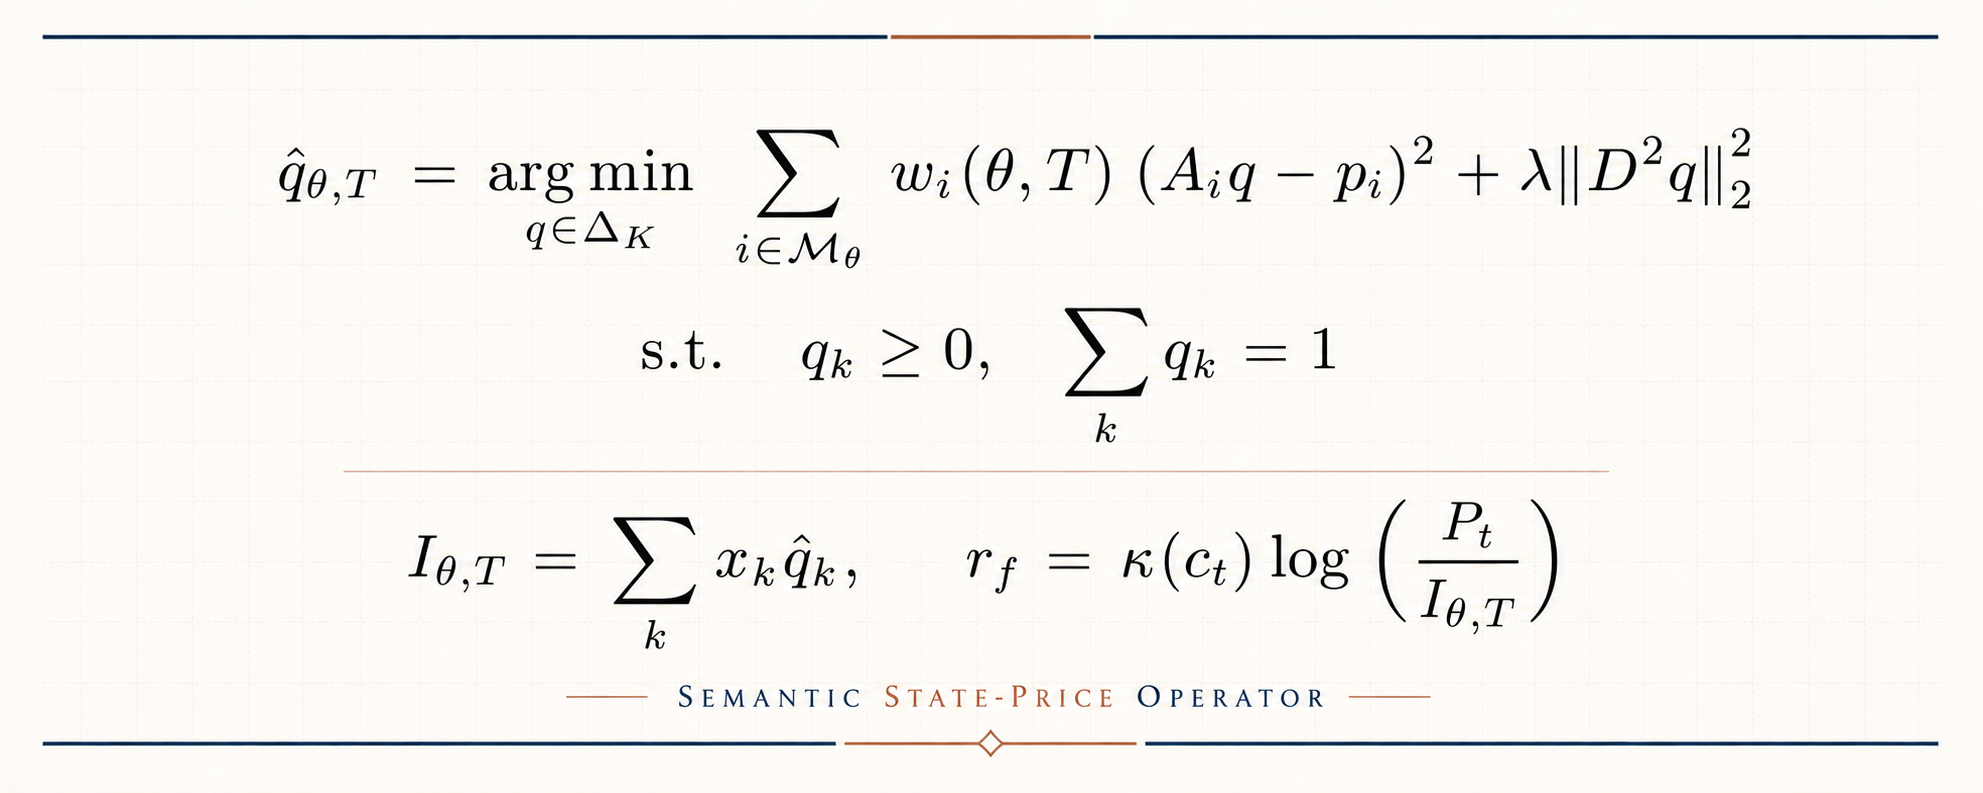
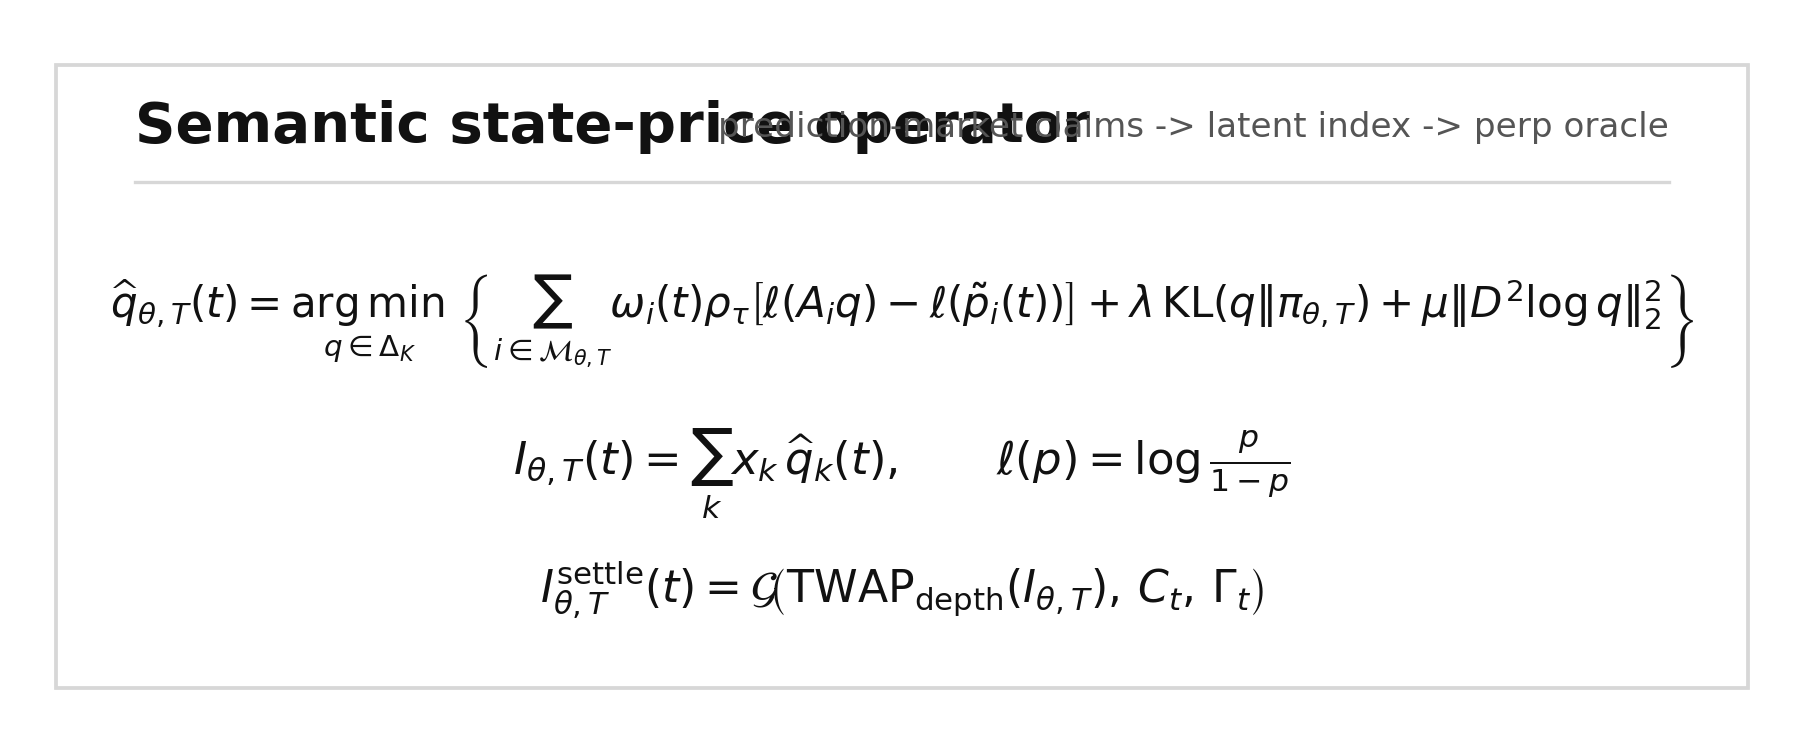
Remove equation figure from manuscript

diff --git a/paper/semantic-state-prices.html b/paper/semantic-state-prices.html
@@ -112,7 +112,6 @@ q_0 &amp;= \Pr(\text{no IPO by }T),\\
 I_{\text{uncond}} &amp;= \sum_{k&gt;0} \widehat q_k x_k,\\
 I_{\text{IPO}} &amp;= \sum_{k&gt;0}\frac{\widehat q_k}{1-\widehat q_0}x_k.
 \end{aligned}\]</div>
-<figure class="operator-figure"><img src="../figures/figure_1_semantic_operator.png" alt="Figure 1. Semantic state-price operator."><figcaption>Figure 1. Semantic state-price operator.</figcaption></figure>
 <h2>4. Market Selection and Semantic Weights</h2>
 <p>Prediction-market data is not a clean option chain. It contains stale markets, ambiguous rules, overlapping outcomes, wide spreads, idiosyncratic settlement details, and proxy markets that are directionally relevant but not direct claims on the target state. The weighting function therefore matters as much as the payoff parser.</p>
 <p>For each market, the empirical artifact records a feature vector:</p>
@@ -185,7 +184,7 @@ A_i(S_T)=\mathbf{1}\{S_T&gt;K\}.\]</div>
 <p><strong>Table 2. Direct close-threshold calibration.</strong></p>
 <table><tr><th>Snapshot</th><th>N</th><th>Brier</th><th>Log loss</th><th>Accuracy</th><th>Mean probability on realized side</th></tr><tr><td>48h before close</td><td>212</td><td>0.142</td><td>0.434</td><td>75.9%</td><td>72.1%</td></tr><tr><td>24h before close</td><td>250</td><td>0.127</td><td>0.384</td><td>81.2%</td><td>75.8%</td></tr><tr><td>6h before close</td><td>342</td><td>0.091</td><td>0.288</td><td>87.4%</td><td>81.7%</td></tr><tr><td>Final pre-close</td><td>342</td><td>0.075</td><td>0.235</td><td>90.4%</td><td>85.4%</td></tr></table>
 <p>The empirical point is structural. Resolved binary event markets form a dense, month-scale calibration set, direct threshold claims improve monotonically as settlement approaches, and lower-specificity proxy markets can be added to a broader entity-level index without being treated as direct claims.</p>
-<figure class="data-figure"><img src="../figures/figure_2_polymarket_crypto.png" alt="Figure 2. Polymarket BTC/ETH entity pool and threshold calibration."><figcaption>Figure 2. Polymarket BTC/ETH entity pool and threshold calibration.</figcaption></figure>
+<figure class="data-figure"><img src="../figures/figure_2_polymarket_crypto.png" alt="Figure 1. Polymarket BTC/ETH entity pool and threshold calibration."><figcaption>Figure 1. Polymarket BTC/ETH entity pool and threshold calibration.</figcaption></figure>
 <h2>8. Empirical Results: Kalshi Multi-Month Temperature Panel</h2>
 <p>The strongest current validation is the Kalshi weather panel. Weather has three advantages: the contracts are recurring, the state variable is continuous but discretized by ranges, and realized outcomes are available from official NOAA/NCEI daily summaries.</p>
 <p>The panel uses high-temperature range contracts for New York City, Chicago, and Miami from March 1 to May 4, 2026. Each city-date has a small mutually exclusive ladder such as:</p>
@@ -196,7 +195,7 @@ A_i(S_T)=\mathbf{1}\{S_T&gt;K\}.\]</div>
 <p><strong>Table 4. Horizon robustness.</strong></p>
 <table><tr><th>Snapshot</th><th>N</th><th>Mean absolute error</th><th>Median absolute error</th><th>Mean actual-bucket probability</th><th>Modal accuracy</th></tr><tr><td>48h before close</td><td>195</td><td>2.07F</td><td>1.31F</td><td>0.281</td><td>0.369</td></tr><tr><td>24h before close</td><td>195</td><td>1.69F</td><td>1.24F</td><td>0.373</td><td>0.549</td></tr><tr><td>Final pre-close</td><td>195</td><td>1.02F</td><td>0.53F</td><td>0.843</td><td>0.862</td></tr></table>
 <p>The monotone improvement across horizons is important. At 48 hours, the market-implied distribution is wider and less concentrated on the realized bucket. At 24 hours, the expected value improves and modal accuracy rises. Near close, the distribution typically collapses around the realized outcome. This is the expected behavior of a market-implied state distribution.</p>
-<figure class="data-figure"><img src="../figures/figure_3_kalshi_panel.png" alt="Figure 3. Kalshi multi-month temperature validation."><figcaption>Figure 3. Kalshi multi-month temperature validation.</figcaption></figure>
+<figure class="data-figure"><img src="../figures/figure_3_kalshi_panel.png" alt="Figure 2. Kalshi multi-month temperature validation."><figcaption>Figure 2. Kalshi multi-month temperature validation.</figcaption></figure>
 <p>The city-level results are heterogeneous. Miami is easiest in the current sample, with final modal accuracy of 100%. New York also performs strongly, with final modal accuracy of 96.9%. Chicago is weaker, with final modal accuracy of 61.5%, producing most of the panel&#x27;s final error. This matters for the general framework: source-market quality varies by market family, venue, and underlying. A production oracle should learn reliability by family rather than assume all event markets are equal.</p>
 <h2>9. Private-Company Demonstration: OpenAI 2027</h2>
 <p>The private-asset demonstration uses OpenAI 2027 IPO valuation markets on Polymarket as the direct anchor, then adds a semantic pocket of related OpenAI markets. The relevant direct state has a no-IPO atom and valuation buckets conditional on an IPO. The broader pool contains model-capability markets, product-release markets, legal/governance markets involving Sam Altman, Elon Musk, Microsoft, or corporate structure, competitor-capability markets for Anthropic, Claude, Gemini, Grok, DeepSeek, and other frontier systems, and lower-weight AI-sector proxies.</p>
@@ -220,7 +219,7 @@ I_{\text{direct}}\cdot
 <p><strong>Table 7. OpenAI state-price and perp comparison.</strong></p>
 <table><tr><th>Source</th><th>Value</th></tr><tr><td>Polymarket unconditional index</td><td>$1.152T</td></tr><tr><td>Polymarket semantic-adjusted index</td><td>$1.150T</td></tr><tr><td>Hyperliquid <code>vntl:OPENAI</code> oracle</td><td>$1.023T</td></tr><tr><td>Hyperliquid <code>vntl:OPENAI</code> mark</td><td>$1.112T</td></tr><tr><td>Polymarket conditional-IPO valuation</td><td>$1.515T</td></tr></table>
 <p>The Hyperliquid mark is close to, but below, the unconditional Polymarket state-price values, while the conditional-IPO value is higher. That relationship is consistent with the interpretation that prediction-market binaries infer state-contingent distributions, while the perp mark reflects a tradeable synthetic exposure with funding, liquidity, and risk premia.</p>
-<figure class="data-figure"><img src="../figures/figure_4_openai_bridge.png" alt="Figure 4. OpenAI state-price and perp bridge."><figcaption>Figure 4. OpenAI state-price and perp bridge.</figcaption></figure>
+<figure class="data-figure"><img src="../figures/figure_4_openai_bridge.png" alt="Figure 3. OpenAI state-price and perp bridge."><figcaption>Figure 3. OpenAI state-price and perp bridge.</figcaption></figure>
 <h2>11. Manipulation and Oracle Safety</h2>
 <p>An oracle built from prediction markets is exposed to source-market manipulation. The correct unit of risk is not only prediction error; it is index movement per dollar of source-market pressure.</p>
 <p>Define:</p>
@@ -278,7 +277,7 @@ p,\ A(\theta,T),\
 <p>For each OpenAI source market, the observed probability is perturbed up and down by five percentage points. The latent distribution is refit, and the index movement is recorded. The stress table reports the maximum and median one-market index movement under this fixed probability shock. A production oracle should extend this step with live order-book attack costs and TWAP adversary simulations.</p>
 <h2>Data and Code Availability</h2>
 <p>All generated files are in this public repository. Key outputs:</p>
-<ul><li><code>data/polymarket_crypto_entity_pool.md</code></li><li><code>data/polymarket_crypto_entity_pool.json</code></li><li><code>data/polymarket_crypto_entity_pool.csv</code></li><li><code>data/polymarket_crypto_threshold_validation.csv</code></li><li><code>data/openai_semantic_market_pool.md</code></li><li><code>data/openai_semantic_market_pool.json</code></li><li><code>data/openai_semantic_market_pool.csv</code></li><li><code>data/kalshi_temperature_panel_20260301_20260504.md</code></li><li><code>data/openai_20271231_projection.md</code></li><li><code>data/hyperliquid_vntl_private_perps.md</code></li><li><code>data/openai_20271231_oracle_stress.md</code></li><li><code>data/prediction_market_surface_inventory.md</code></li><li><code>figures/figure_1_semantic_operator.png</code></li><li><code>figures/figure_2_polymarket_crypto.png</code></li><li><code>figures/figure_3_kalshi_panel.png</code></li><li><code>figures/figure_4_openai_bridge.png</code></li></ul>
+<ul><li><code>data/polymarket_crypto_entity_pool.md</code></li><li><code>data/polymarket_crypto_entity_pool.json</code></li><li><code>data/polymarket_crypto_entity_pool.csv</code></li><li><code>data/polymarket_crypto_threshold_validation.csv</code></li><li><code>data/openai_semantic_market_pool.md</code></li><li><code>data/openai_semantic_market_pool.json</code></li><li><code>data/openai_semantic_market_pool.csv</code></li><li><code>data/kalshi_temperature_panel_20260301_20260504.md</code></li><li><code>data/openai_20271231_projection.md</code></li><li><code>data/hyperliquid_vntl_private_perps.md</code></li><li><code>data/openai_20271231_oracle_stress.md</code></li><li><code>data/prediction_market_surface_inventory.md</code></li><li><code>figures/figure_2_polymarket_crypto.png</code></li><li><code>figures/figure_3_kalshi_panel.png</code></li><li><code>figures/figure_4_openai_bridge.png</code></li></ul>
 <h2>References</h2>
 <ol><li>Black, F. and Scholes, M. (1973). The Pricing of Options and Corporate Liabilities. <em>Journal of Political Economy</em>. https://doi.org/10.1086/260062</li><li>Merton, R. C. (1973). Theory of Rational Option Pricing. <em>Bell Journal of Economics and Management Science</em>. https://doi.org/10.2307/3003143</li><li>Breeden, D. T. and Litzenberger, R. H. (1978). Prices of State-Contingent Claims Implicit in Option Prices. <em>Journal of Business</em>. https://doi.org/10.1086/296025</li><li>Wolfers, J. and Zitzewitz, E. (2004). Prediction Markets. <em>Journal of Economic Perspectives</em>. https://www.aeaweb.org/articles?id=10.1257/0895330041371321</li><li>Manski, C. F. (2006). Interpreting the Predictions of Prediction Markets. <em>Economics Letters</em>. https://doi.org/10.1016/j.econlet.2006.01.004</li><li>Wolfers, J. and Zitzewitz, E. (2006). Interpreting Prediction Market Prices as Probabilities. NBER Working Paper. https://www.nber.org/papers/w12200</li><li>Arrow, K. J. et al. (2008). The Promise of Prediction Markets. <em>Science</em>. https://digitalcommons.chapman.edu/esi_pubs/40/</li><li>Hanson, R. (2003). Logarithmic Market Scoring Rules for Modular Combinatorial Information Aggregation. https://hanson.gmu.edu/mktscore.pdf</li><li>Hayek, F. A. (1945). The Use of Knowledge in Society. <em>American Economic Review</em>. https://www.jstor.org/stable/1809376</li><li>Polymarket CLOB market data documentation. https://docs.polymarket.com/market-data/overview</li><li>Polymarket CLOB order book documentation. https://docs.polymarket.com/trading/orderbook</li><li>Kalshi market data documentation. https://docs.kalshi.com/getting_started/quick_start_market_data</li><li>NOAA/NCEI daily summaries data service. https://www.ncei.noaa.gov/access/services/data/v1</li><li>Hyperliquid perpetuals info endpoint documentation. https://hyperliquid.gitbook.io/hyperliquid-docs/for-developers/api/info-endpoint/perpetuals</li></ol></main></body>
 </html>

diff --git a/scripts/build_figures.py b/scripts/build_figures.py
@@ -5,6 +5,7 @@ from pathlib import Path
 
 import matplotlib.pyplot as plt
 from matplotlib.ticker import PercentFormatter
+from matplotlib.patches import Rectangle
 
 
 ROOT = Path(__file__).resolve().parents[1]
@@ -32,6 +33,52 @@ plt.rcParams.update(
         "figure.dpi": 160,
     }
 )
+
+
+def semantic_operator():
+    fig, ax = plt.subplots(figsize=(7.5, 3.0))
+    fig.patch.set_facecolor(PAPER)
+    ax.set_facecolor(PAPER)
+    ax.axis("off")
+    ax.add_patch(Rectangle((0.015, 0.05), 0.97, 0.90, transform=ax.transAxes, fill=False, edgecolor=DORMANT, linewidth=0.9))
+    ax.plot([0.06, 0.94], [0.78, 0.78], color=DORMANT, linewidth=0.8, transform=ax.transAxes)
+    ax.text(
+        0.06,
+        0.86,
+        "Semantic state-price operator",
+        transform=ax.transAxes,
+        ha="left",
+        va="center",
+        fontsize=13.5,
+        fontweight="bold",
+        color=INK,
+    )
+    ax.text(
+        0.94,
+        0.86,
+        "prediction-market claims -> latent index -> perp oracle",
+        transform=ax.transAxes,
+        ha="right",
+        va="center",
+        fontsize=8.2,
+        color=MID,
+    )
+
+    eq1 = (
+        r"$\widehat q_{\theta,T}(t)=\underset{q\in\Delta_K}{\arg\min}\ "
+        r"\left\{\sum_{i\in\mathcal{M}_{\theta,T}}\omega_i(t)\rho_\tau"
+        r"\left[\ell(A_iq)-\ell(\tilde p_i(t))\right]"
+        r"+\lambda\,\mathrm{KL}(q\Vert\pi_{\theta,T})+\mu\Vert D^2\log q\Vert_2^2\right\}$"
+    )
+    eq2 = r"$I_{\theta,T}(t)=\sum_k x_k\,\widehat q_k(t),\qquad \ell(p)=\log\frac{p}{1-p}$"
+    eq3 = (
+        r"$I^{\mathrm{settle}}_{\theta,T}(t)=\mathcal{G}"
+        r"\!\left(\mathrm{TWAP}_{\mathrm{depth}}(I_{\theta,T}),\,C_t,\,\Gamma_t\right)$"
+    )
+    ax.text(0.5, 0.58, eq1, transform=ax.transAxes, ha="center", va="center", fontsize=10.1, color=INK)
+    ax.text(0.5, 0.36, eq2, transform=ax.transAxes, ha="center", va="center", fontsize=10.8, color=INK)
+    ax.text(0.5, 0.19, eq3, transform=ax.transAxes, ha="center", va="center", fontsize=10.6, color=INK)
+    save(fig, "figure_1_semantic_operator.png")
 
 
 def load(name: str) -> dict:
@@ -261,6 +308,7 @@ def openai_bridge():
 
 
 def main():
+    semantic_operator()
     crypto_panel()
     kalshi_panel()
     openai_bridge()

diff --git a/paper/semantic-state-prices.md b/paper/semantic-state-prices.md
@@ -137,8 +137,6 @@ I_{\text{IPO}} &= \sum_{k>0}\frac{\widehat q_k}{1-\widehat q_0}x_k.
 \end{aligned}
 ```
 
-![Figure 1. Semantic state-price operator.](../figures/figure_1_semantic_operator.png)
-
 ## 4. Market Selection and Semantic Weights
 
 Prediction-market data is not a clean option chain. It contains stale markets, ambiguous rules, overlapping outcomes, wide spreads, idiosyncratic settlement details, and proxy markets that are directionally relevant but not direct claims on the target state. The weighting function therefore matters as much as the payoff parser.
@@ -287,7 +285,7 @@ For the direct close-threshold subset, the script fetches Polymarket CLOB `batch
 
 The empirical point is structural. Resolved binary event markets form a dense, month-scale calibration set, direct threshold claims improve monotonically as settlement approaches, and lower-specificity proxy markets can be added to a broader entity-level index without being treated as direct claims.
 
-![Figure 2. Polymarket BTC/ETH entity pool and threshold calibration.](../figures/figure_2_polymarket_crypto.png)
+![Figure 1. Polymarket BTC/ETH entity pool and threshold calibration.](../figures/figure_2_polymarket_crypto.png)
 
 ## 8. Empirical Results: Kalshi Multi-Month Temperature Panel
 
@@ -321,7 +319,7 @@ Each hourly snapshot is normalized into a distribution over temperature buckets 
 
 The monotone improvement across horizons is important. At 48 hours, the market-implied distribution is wider and less concentrated on the realized bucket. At 24 hours, the expected value improves and modal accuracy rises. Near close, the distribution typically collapses around the realized outcome. This is the expected behavior of a market-implied state distribution.
 
-![Figure 3. Kalshi multi-month temperature validation.](../figures/figure_3_kalshi_panel.png)
+![Figure 2. Kalshi multi-month temperature validation.](../figures/figure_3_kalshi_panel.png)
 
 The city-level results are heterogeneous. Miami is easiest in the current sample, with final modal accuracy of 100%. New York also performs strongly, with final modal accuracy of 96.9%. Chicago is weaker, with final modal accuracy of 61.5%, producing most of the panel's final error. This matters for the general framework: source-market quality varies by market family, venue, and underlying. A production oracle should learn reliability by family rather than assume all event markets are equal.
 
@@ -387,7 +385,7 @@ The OpenAI comparison is especially useful:
 
 The Hyperliquid mark is close to, but below, the unconditional Polymarket state-price values, while the conditional-IPO value is higher. That relationship is consistent with the interpretation that prediction-market binaries infer state-contingent distributions, while the perp mark reflects a tradeable synthetic exposure with funding, liquidity, and risk premia.
 
-![Figure 4. OpenAI state-price and perp bridge.](../figures/figure_4_openai_bridge.png)
+![Figure 3. OpenAI state-price and perp bridge.](../figures/figure_4_openai_bridge.png)
 
 ## 11. Manipulation and Oracle Safety
 
@@ -512,7 +510,6 @@ All generated files are in this public repository. Key outputs:
 - `data/hyperliquid_vntl_private_perps.md`
 - `data/openai_20271231_oracle_stress.md`
 - `data/prediction_market_surface_inventory.md`
-- `figures/figure_1_semantic_operator.png`
 - `figures/figure_2_polymarket_crypto.png`
 - `figures/figure_3_kalshi_panel.png`
 - `figures/figure_4_openai_bridge.png`